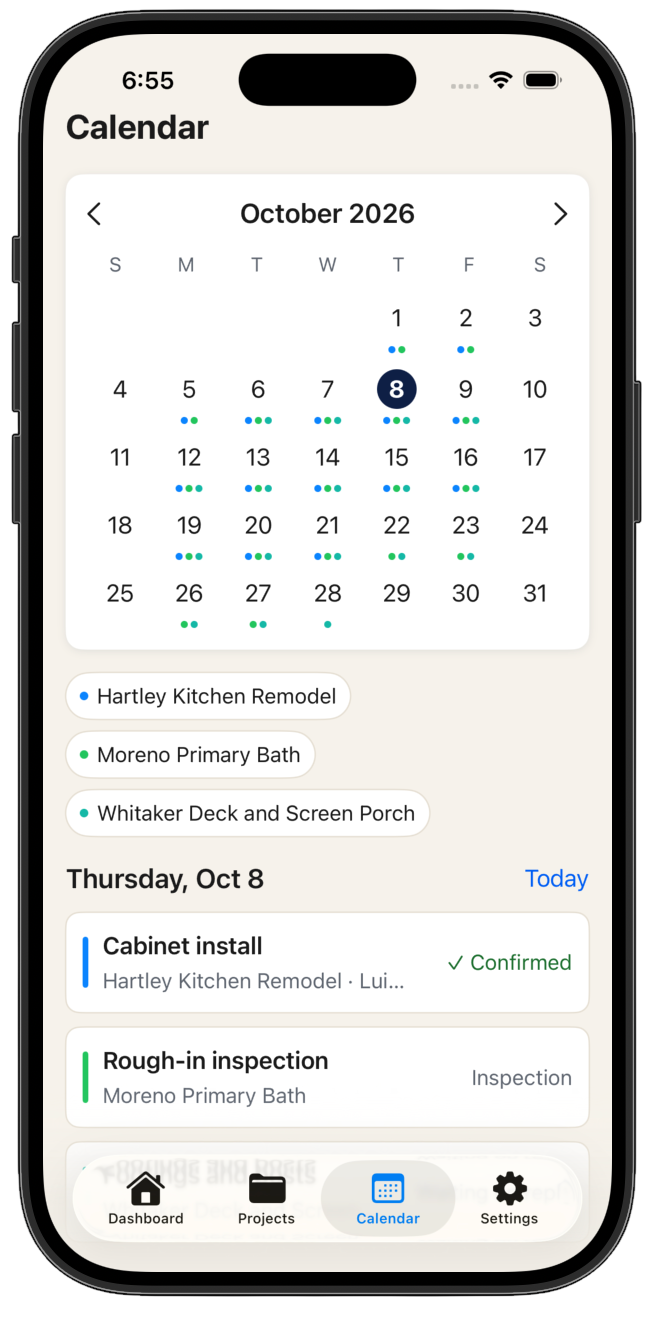
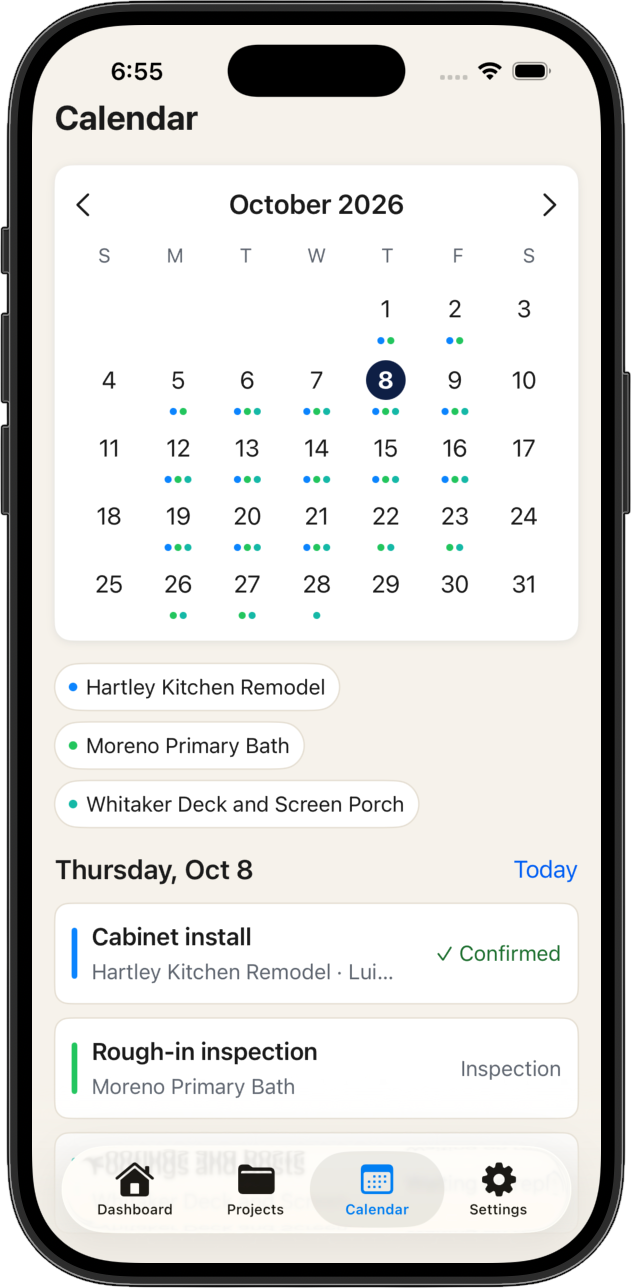
Match phone screenshot sizes, remove money proof card, caption pillar 2 gauges, rename nav to What it does

diff --git a/index.html b/index.html
@@ -89,7 +89,7 @@
       </a>
       <nav>
         <div class="nav-links" id="mobile-menu">
-          <a href="#jobs">How it Works</a>
+          <a href="#jobs">What it does</a>
           <a href="/pricing">Pricing</a>
           <a href="#faq">FAQ</a>
         </div>
@@ -115,17 +115,7 @@
         </div>
       </div>
       <div class="hero-visual">
-        <img class="device-shot" src="/images/screens/dashboard-today.png" alt="Danori dashboard with Today's jobs and Top priorities" width="658" height="1300">
-      </div>
-    </div>
-  </section>
-
-  <section id="money-proof" class="reveal">
-    <div class="container">
-      <div class="proof-card">
-        <p class="proof-label">On a job that's still running:</p>
-        <p class="proof-line">You'll keep $3,880 instead of $4,680. Cabinets ran over the most.</p>
-        <p class="proof-support">You see it while there's still time to do something about it.</p>
+        <img class="device-shot" src="/images/screens/dashboard-today.png" alt="Danori dashboard with Today's jobs and Top priorities" width="631" height="1289">
       </div>
     </div>
   </section>
@@ -161,8 +151,8 @@
           </div>
         </div>
         <div class="screen-grid">
-          <img class="device-shot" src="/images/screens/dashboard-priorities.png" alt="Danori dashboard showing Top priorities and Jobs at a glance" width="686" height="1314">
-          <img class="device-shot" src="/images/screens/calendar.png" alt="Danori calendar with a day selected, who's on site, and whether they confirmed" width="656" height="1318">
+          <img class="device-shot" src="/images/screens/dashboard-priorities.png" alt="Danori dashboard showing Top priorities and Jobs at a glance" width="631" height="1289">
+          <img class="device-shot" src="/images/screens/calendar.png" alt="Danori calendar with a day selected, who's on site, and whether they confirmed" width="631" height="1288">
         </div>
       </div>
     </div>
@@ -191,6 +181,7 @@
               <div class="gauge-track"><div class="gauge-fill" style="--fill: 83%"></div></div>
             </div>
           </div>
+          <p class="gauge-caption">On this job, you'll keep $3,880 instead of $4,680. Cabinets ran over the most.</p>
         </div>
         <div class="screen-grid">
           <img class="device-shot" src="/images/screens/project-gauges.png" alt="Project details with contingency and profit gauges" width="662" height="1316">
@@ -301,7 +292,7 @@
         <div class="footer-section">
           <h4>Product</h4>
           <ul>
-            <li><a href="#jobs">How it Works</a></li>
+            <li><a href="#jobs">What it does</a></li>
             <li><a href="/pricing">Pricing</a></li>
             <li><a href="#faq">FAQ</a></li>
           </ul>

diff --git a/styles.css b/styles.css
@@ -269,7 +269,7 @@ ul {
 #hero {
   background: var(--color-page);
   color: var(--color-ink);
-  padding: 4.5rem 0 3.5rem;
+  padding: 4.5rem 0 2.25rem;
 }
 
 .hero-container {
@@ -340,40 +340,6 @@ ul {
   font-size: 13px;
 }
 
-#money-proof {
-  padding: 0 0 3.5rem;
-}
-
-.proof-card {
-  background: var(--color-card);
-  border: 1px solid var(--color-border);
-  border-radius: var(--radius);
-  box-shadow: var(--shadow);
-  padding: 1.5rem 1.75rem;
-  max-width: 40rem;
-}
-
-.proof-label {
-  margin: 0 0 0.45rem;
-  font-size: 0.9rem;
-  font-weight: 600;
-  color: var(--color-muted);
-}
-
-.proof-line {
-  margin: 0 0 0.5rem;
-  font-size: 1.45rem;
-  font-weight: 600;
-  line-height: 1.3;
-  color: var(--color-navy);
-}
-
-.proof-support {
-  margin: 0;
-  font-size: 1.05rem;
-  color: var(--color-muted);
-}
-
 /* Device screenshots (bezel is in the image) */
 .device-shot {
   display: block;
@@ -384,7 +350,7 @@ ul {
 }
 
 .hero-visual .device-shot {
-  max-width: 320px;
+  max-width: 300px;
 }
 
 .faq-acc-item:hover,
@@ -398,7 +364,17 @@ ul {
   display: grid;
   grid-template-columns: 1fr 1fr;
   gap: 1rem;
-  align-items: start;
+  align-items: end;
+  justify-items: center;
+}
+
+.screen-grid .device-shot {
+  width: 100%;
+  max-width: 300px;
+  height: auto;
+  aspect-ratio: 631 / 1289;
+  object-fit: contain;
+  object-position: bottom center;
 }
 
 .visual-row {
@@ -410,7 +386,7 @@ ul {
 
 /* Problem */
 #problem {
-  padding: 4rem 0;
+  padding: 2.5rem 0 4rem;
 }
 
 .problem-copy {
@@ -509,6 +485,16 @@ ul {
   grid-template-columns: 1fr 1fr;
   gap: 1rem;
   margin-top: 1.5rem;
+}
+
+.gauge-caption {
+  margin: 0.85rem 0 0;
+  font-size: 0.9rem;
+  color: #6b6b6b;
+}
+
+.pillar-navy .gauge-caption {
+  color: #6b6b6b;
 }
 
 .gauge {

diff --git a/support.html b/support.html
@@ -147,7 +147,7 @@
       </a>
       <nav>
         <div class="nav-links" id="mobile-menu">
-          <a href="/#jobs">How it Works</a>
+          <a href="/#jobs">What it does</a>
           <a href="/pricing">Pricing</a>
           <a href="/#faq">FAQ</a>
         </div>
@@ -241,7 +241,7 @@
         <div class="footer-section">
           <h4>Product</h4>
           <ul>
-            <li><a href="/#jobs">How it Works</a></li>
+            <li><a href="/#jobs">What it does</a></li>
             <li><a href="/pricing">Pricing</a></li>
             <li><a href="/#faq">FAQ</a></li>
           </ul>

diff --git a/pricing.html b/pricing.html
@@ -70,7 +70,7 @@
       </a>
       <nav>
         <div class="nav-links" id="mobile-menu">
-          <a href="/#jobs">How it Works</a>
+          <a href="/#jobs">What it does</a>
           <a href="/pricing">Pricing</a>
           <a href="/#faq">FAQ</a>
         </div>
@@ -146,7 +146,7 @@
         <div class="footer-section">
           <h4>Product</h4>
           <ul>
-            <li><a href="/#jobs">How it Works</a></li>
+            <li><a href="/#jobs">What it does</a></li>
             <li><a href="/pricing">Pricing</a></li>
             <li><a href="/#faq">FAQ</a></li>
           </ul>

diff --git a/privacy.html b/privacy.html
@@ -35,7 +35,7 @@
       </a>
       <nav>
         <div class="nav-links" id="mobile-menu">
-          <a href="/#jobs">How it Works</a>
+          <a href="/#jobs">What it does</a>
           <a href="/pricing">Pricing</a>
           <a href="/#faq">FAQ</a>
         </div>
@@ -112,7 +112,7 @@
         <div class="footer-section">
           <h4>Product</h4>
           <ul>
-            <li><a href="/#jobs">How it Works</a></li>
+            <li><a href="/#jobs">What it does</a></li>
             <li><a href="/pricing">Pricing</a></li>
             <li><a href="/#faq">FAQ</a></li>
           </ul>

diff --git a/terms.html b/terms.html
@@ -35,7 +35,7 @@
       </a>
       <nav>
         <div class="nav-links" id="mobile-menu">
-          <a href="/#jobs">How it Works</a>
+          <a href="/#jobs">What it does</a>
           <a href="/pricing">Pricing</a>
           <a href="/#faq">FAQ</a>
         </div>
@@ -100,7 +100,7 @@
         <div class="footer-section">
           <h4>Product</h4>
           <ul>
-            <li><a href="/#jobs">How it Works</a></li>
+            <li><a href="/#jobs">What it does</a></li>
             <li><a href="/pricing">Pricing</a></li>
             <li><a href="/#faq">FAQ</a></li>
           </ul>

diff --git a/checkout-canceled.html b/checkout-canceled.html
@@ -35,7 +35,7 @@
       </a>
       <nav>
         <div class="nav-links" id="mobile-menu">
-          <a href="/#jobs">How it Works</a>
+          <a href="/#jobs">What it does</a>
           <a href="/pricing">Pricing</a>
           <a href="/#faq">FAQ</a>
         </div>
@@ -62,7 +62,7 @@
         <div class="footer-section">
           <h4>Product</h4>
           <ul>
-            <li><a href="/#jobs">How it Works</a></li>
+            <li><a href="/#jobs">What it does</a></li>
             <li><a href="/pricing">Pricing</a></li>
             <li><a href="/#faq">FAQ</a></li>
           </ul>

diff --git a/checkout-success.html b/checkout-success.html
@@ -35,7 +35,7 @@
       </a>
       <nav>
         <div class="nav-links" id="mobile-menu">
-          <a href="/#jobs">How it Works</a>
+          <a href="/#jobs">What it does</a>
           <a href="/pricing">Pricing</a>
           <a href="/#faq">FAQ</a>
         </div>
@@ -61,7 +61,7 @@
         <div class="footer-section">
           <h4>Product</h4>
           <ul>
-            <li><a href="/#jobs">How it Works</a></li>
+            <li><a href="/#jobs">What it does</a></li>
             <li><a href="/pricing">Pricing</a></li>
             <li><a href="/#faq">FAQ</a></li>
           </ul>

diff --git a/cookies.html b/cookies.html
@@ -35,7 +35,7 @@
       </a>
       <nav>
         <div class="nav-links" id="mobile-menu">
-          <a href="/#jobs">How it Works</a>
+          <a href="/#jobs">What it does</a>
           <a href="/pricing">Pricing</a>
           <a href="/#faq">FAQ</a>
         </div>
@@ -79,7 +79,7 @@
         <div class="footer-section">
           <h4>Product</h4>
           <ul>
-            <li><a href="/#jobs">How it Works</a></li>
+            <li><a href="/#jobs">What it does</a></li>
             <li><a href="/pricing">Pricing</a></li>
             <li><a href="/#faq">FAQ</a></li>
           </ul>

diff --git a/sms-consent.html b/sms-consent.html
@@ -35,7 +35,7 @@
       </a>
       <nav>
         <div class="nav-links" id="mobile-menu">
-          <a href="/#jobs">How it Works</a>
+          <a href="/#jobs">What it does</a>
           <a href="/pricing">Pricing</a>
           <a href="/#faq">FAQ</a>
         </div>
@@ -90,7 +90,7 @@
         <div class="footer-section">
           <h4>Product</h4>
           <ul>
-            <li><a href="/#jobs">How it Works</a></li>
+            <li><a href="/#jobs">What it does</a></li>
             <li><a href="/pricing">Pricing</a></li>
             <li><a href="/#faq">FAQ</a></li>
           </ul>

diff --git a/styles/mobile.css b/styles/mobile.css
@@ -139,7 +139,7 @@ header.menu-open .nav-links {
   grid-template-columns: 1fr;
 }
 
-#problem, .pillar, #faq, #final-cta, #subs, #not-another, #money-proof {
+#problem, .pillar, #faq, #final-cta, #subs, #not-another {
   padding-top: 32px;
   padding-bottom: 32px;
 }

diff --git a/content/landingCopy.js b/content/landingCopy.js
@@ -6,7 +6,7 @@ export const landingCopy = {
   header: {
     logo: "Danori",
     nav: {
-      howItWorks: "How it Works",
+      howItWorks: "What it does",
       pricing: "Pricing",
       faq: "FAQ"
     },
